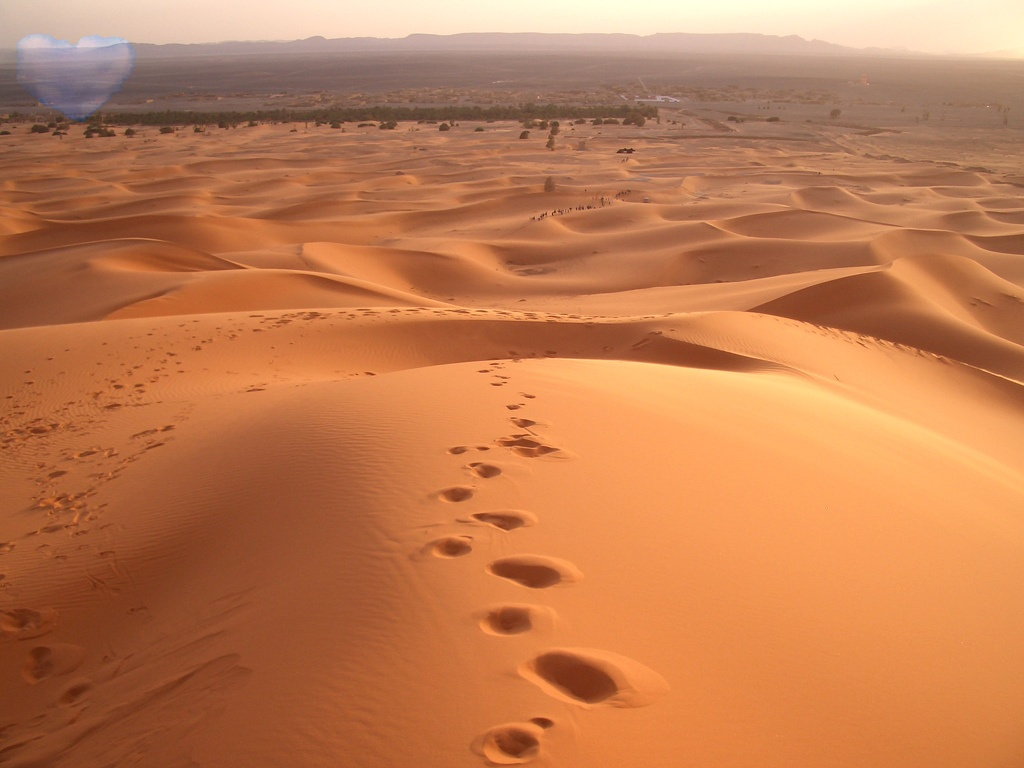
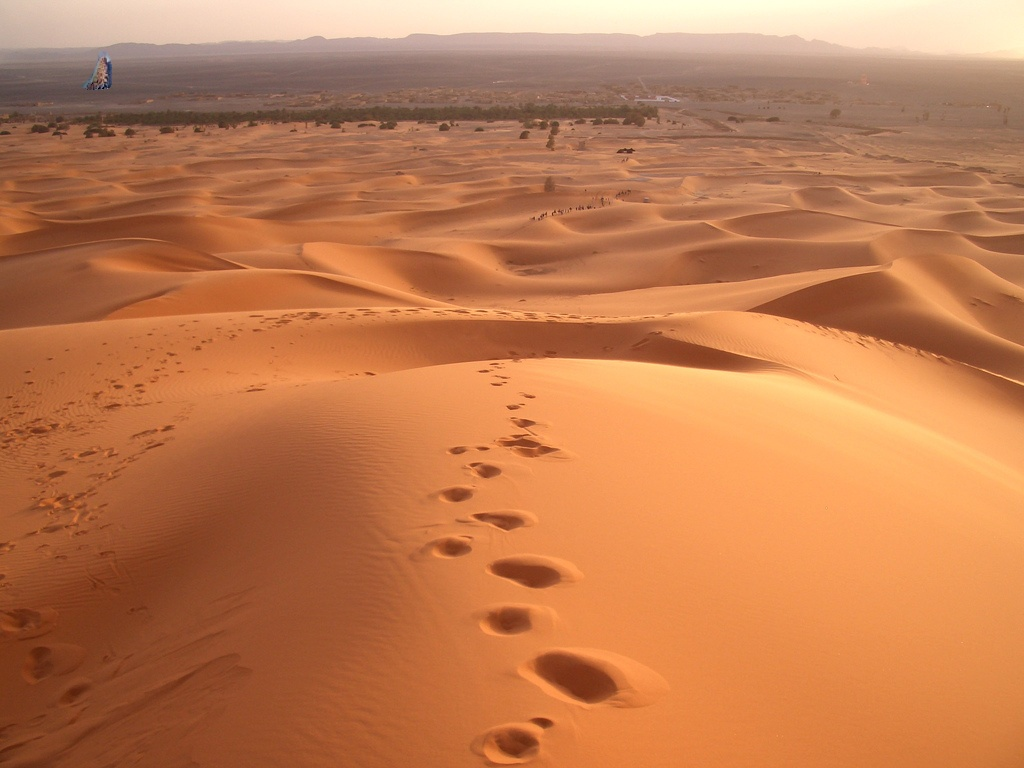
new results

Changed region(s): [[0.0, 0.0312, 0.1562, 0.1562]]

diff --git a/ProyectoFinal/main.cpp b/ProyectoFinal/main.cpp
@@ -17,9 +17,9 @@ using namespace std;
  */
 int main(int argc, char** argv) {
 
-    cv::Mat im1 = cv::imread("imagenes/playa.jpg");
-    cv::Mat im2 = cv::imread("imagenes/nubeblanca.jpg");
-    cv::Mat mask = cv::imread("imagenes/nubeblancabn.jpg", cv::IMREAD_GRAYSCALE);
+    cv::Mat im1 = cv::imread("imagenes/desert.jpg");
+    cv::Mat im2 = cv::imread("imagenes/estrella.jpg");
+    cv::Mat mask = cv::imread("imagenes/esbn.jpg", cv::IMREAD_GRAYSCALE);
     mask = mask > 128;
 
     im1.convertTo(im1, CV_64FC3);
